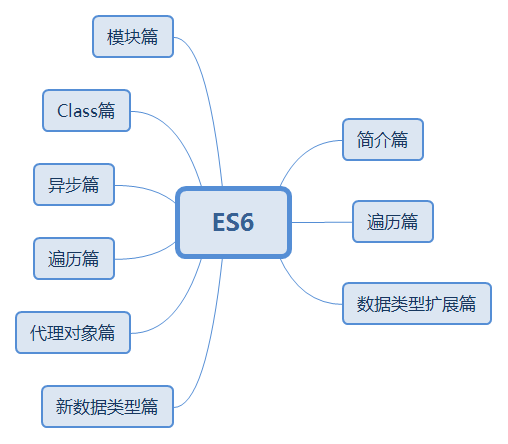
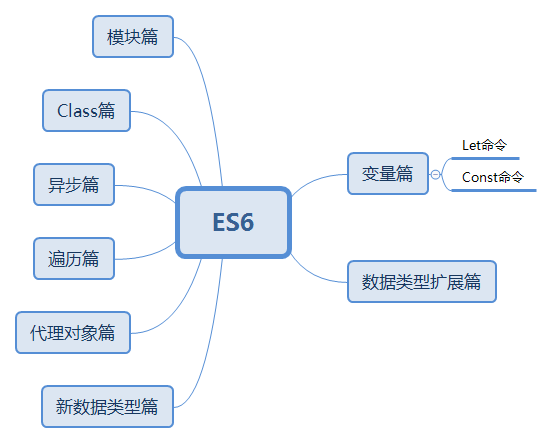
let

diff --git a/变量篇/Let命令.md b/变量篇/Let命令.md
@@ -1,0 +1,1 @@
+# Let命令
